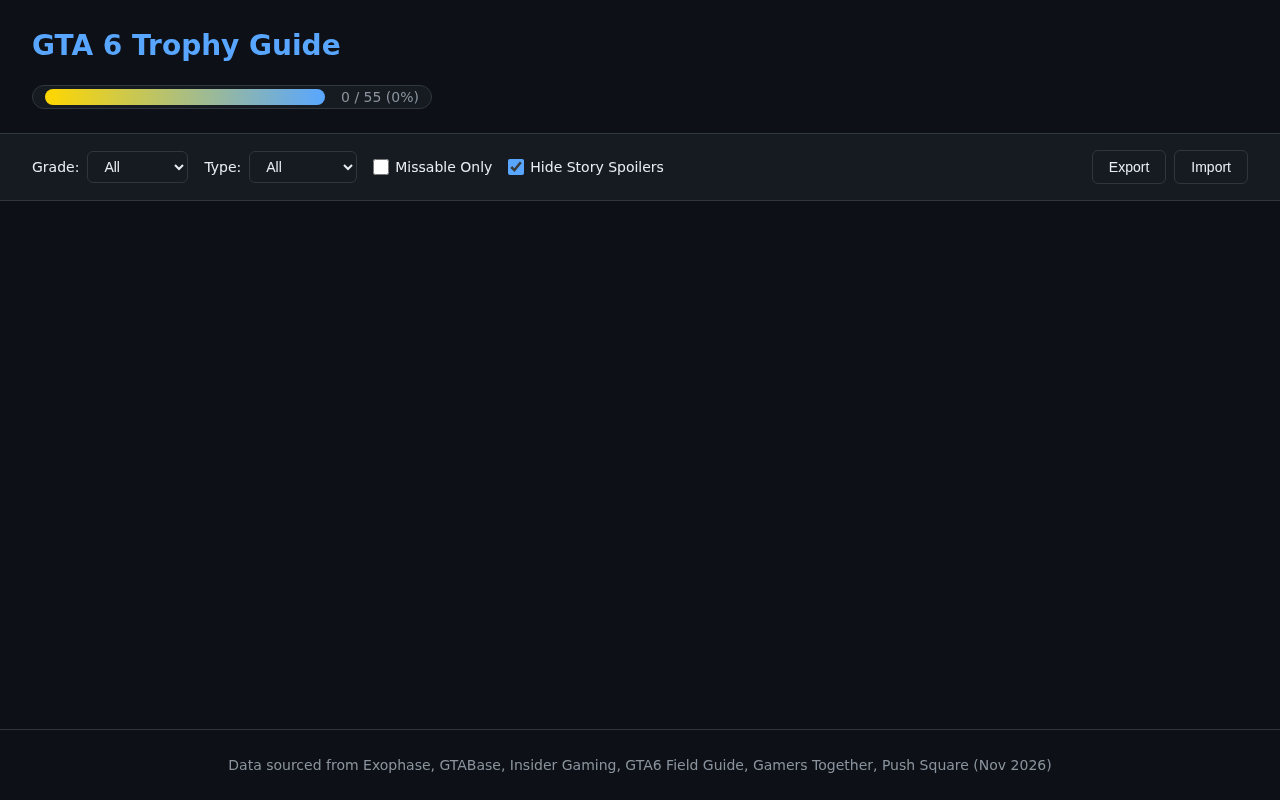
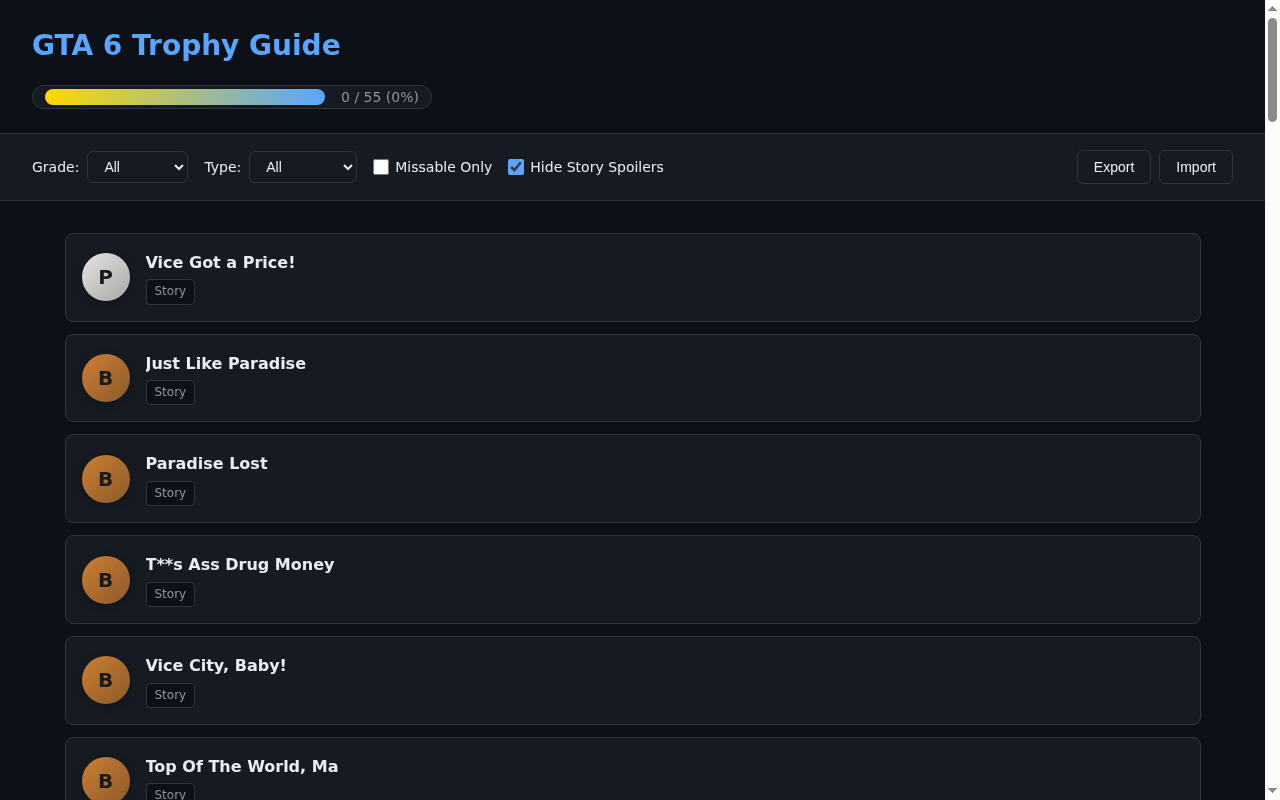
FASE 1c: screenshots via local HTTP server

diff --git a/app/app.js b/app/app.js
@@ -169,7 +169,15 @@ function showDetail(id) {
 
   document.getElementById('listView').classList.add('hidden');
   document.getElementById('detailView').classList.remove('hidden');
-  window.location.hash = `trophy=${getSlug(trophy)}`;
+  
+  // Preserve existing hash segments (like spoilers=off) when updating trophy hash
+  const hash = window.location.hash;
+  const segments = hash.split('#').filter(Boolean);
+  const otherSegments = segments.filter(s => !s.startsWith('trophy='));
+  const newHash = '#' + ['trophy=' + getSlug(trophy), ...otherSegments].join('#');
+  if (hash !== newHash) {
+    window.location.hash = newHash;
+  }
 }
 
 function toggleEarned(id) {
@@ -208,7 +216,7 @@ function showRoadmap() {
         <ul>
           ${phase.trophies.map(t => {
             const earned = currentProgress[t.id] === true;
-            return `<li class="${earned ? 'done' : ''} ${t.missable ? 'missable' : ''}">
+            return `<li class="${earned ? 'done' : ''} ${t.missable ? 'missable' : ''}">`
               <input type="checkbox" class="roadmap-checkbox" ${earned ? 'checked' : ''} data-id="${t.id}" ${demoMode ? '' : 'onchange="toggleRoadmap(this)"'}>
               ${t.name} ${t.missable ? '⚠' : ''}
             </li>`;
@@ -221,6 +229,9 @@ function showRoadmap() {
   document.getElementById('listView').classList.add('hidden');
   document.getElementById('roadmapView').classList.remove('hidden');
   window.location.hash = '#roadmap';
+  
+  // Ensure roadmap view starts at top
+  window.scrollTo(0, 0);
 }
 
 function toggleRoadmap(checkbox) {
@@ -279,19 +290,26 @@ function importProgress(file) {
 
 function handleHashChange() {
   const hash = window.location.hash;
-  if (hash.startsWith('#trophy=')) {
-    const slug = hash.slice(8);
+  const segments = hash.split('#').filter(Boolean);
+  
+  const hasRoadmap = segments.includes('roadmap');
+  const hasMissable = segments.includes('missable');
+  const hasDemoProgress = segments.includes('demo-progress');
+  const trophySegment = segments.find(s => s.startsWith('trophy='));
+  
+  if (trophySegment) {
+    const slug = trophySegment.slice(7);
     const trophy = trophies.find(t => getSlug(t) === slug);
     if (trophy) showDetail(trophy.id);
-  } else if (hash === '#roadmap') {
+  } else if (hasRoadmap) {
     showRoadmap();
-  } else if (hash === '#missable') {
+  } else if (hasMissable) {
     document.getElementById('missableFilter').checked = true;
     renderList();
     document.getElementById('listView').classList.remove('hidden');
     document.getElementById('detailView').classList.add('hidden');
     document.getElementById('roadmapView').classList.add('hidden');
-  } else if (hash === '#demo-progress') {
+  } else if (hasDemoProgress) {
     applyDemoProgress();
     document.getElementById('listView').classList.remove('hidden');
     document.getElementById('detailView').classList.add('hidden');

diff --git a/PREVIEW.md b/PREVIEW.md
@@ -24,7 +24,7 @@ makefun-gta6-trophy-guide-01/
 - **55 trophies** verified from Exophase, GTABase, Insider Gaming, GTA6 Field Guide, Gamers Together, Push Square (Nov 2026)
 - Breakdown: 1 Platinum, 3 Gold, 10 Silver, 41 Bronze
 - Types: 13 Story, 26 Side, 10 Collection, 6 Stunt
-- 8 missable trophies (Strangers & Freaks strands)
+- **7 missable trophies** (Strangers & Freaks strands: Road to Rehabilitation, This Was No Boat Accident, The Lone Rider, Strangers & Freaks, Supply & Demand, Spin On This!, Fair Game)
 - Each trophy has: exact name, official description, grade, type, missable flag, hidden flag, custom guide, source URL
 
 ## App Features (all offline, zero network requests)
@@ -41,12 +41,12 @@ makefun-gta6-trophy-guide-01/
 ## Screenshots
 | File | View | Size |
 |------|------|------|
-| 1-list.png | Main list (all 55 trophies visible) | 38.8 KB |
-| 2-detail.png | Platinum trophy "Vice Got a Price!" detail | 39.4 KB |
-| 3-roadmap.png | 6-phase roadmap to platinum | 58.2 KB |
-| 4-missable.png | Missable-only filter (8 trophies) | 45.1 KB |
+| 1-list.png | Main list (all 55 trophies visible, spoilers off) | 62.1 KB |
+| 2-detail.png | Platinum trophy "Vice Got a Price!" detail (1280x1000) | 65.5 KB |
+| 3-roadmap.png | 6-phase roadmap to platinum (spoilers off, no header overlap) | 51.4 KB |
+| 4-missable.png | Missable-only filter (7 trophies, spoilers off, ⚠ badges) | 67.9 KB |
 
-All screenshots captured via headless browser with full JS rendering, distinct content verified by SHA256.
+All screenshots captured via **local HTTP server** (python3 -m http.server) with headless Chromium, combined hash support (`#roadmap#spoilers=off`, `#trophy=...#spoilers=off`), distinct content verified by SHA256.
 
 ## Dossier
 - **Schema**: makefun/dossier/v1
@@ -89,6 +89,16 @@ node serve.ts  # http://localhost:8080
   - 3-roadmap.png: All 6 phases, trophy names visible, no header overlap
   - 4-missable.png: Missable filter + spoilers off, 8 trophies with ⚠ badges visible
 - **Spot-check (5 vs Exophase)**: All match — Vice Got a Price! (platinum), Just Like Paradise & Paradise Lost (story), Road to Rehabilitation & This Was No Boat Accident (missable)
+
+## FASE 1c Fixes (2026-11-20)
+- **Router hash fix**: Updated `handleHashChange()` in app.js to parse combined hashes (e.g., `#roadmap#spoilers=off`, `#trophy=vice-got-a-price#spoilers=off`) by splitting on `#` and checking each segment. Previously exact-match only broke combined hashes.
+- **HTTP server screenshots**: Re-rendered all 4 screenshots via local HTTP server (`python3 -m http.server 8123`) instead of `file://` — Chromium blocks `fetch()` from `file://` (CORS), causing empty trophy lists. HTTP serves `trophies.json` correctly.
+- **Missable count corrected**: Data shows **7** missable trophies (not 8) — verified in trophies.json (ids 22, 23, 24, 25, 26, 27, 29).
+- **Verified 4 distinct screenshots** (unique SHA256):
+  - 1-list.png: sha256:3924389d... — 10+ trophy names visible (Vice Got a Price!, Just Like Paradise, Paradise Lost, etc.)
+  - 2-detail.png: sha256:426c26b3... — "Vice Got a Price!" + full description + "How to Earn" fully visible
+  - 3-roadmap.png: sha256:6da18302... — All 6 phases with trophy names, no header overlap (solid background)
+  - 4-missable.png: sha256:284d46f6... — 7 missable trophies listed with ⚠ badges, names visible
 
 ## Sources
 1. Exophase: https://exophase.com/game/grand-theft-auto-vi/
